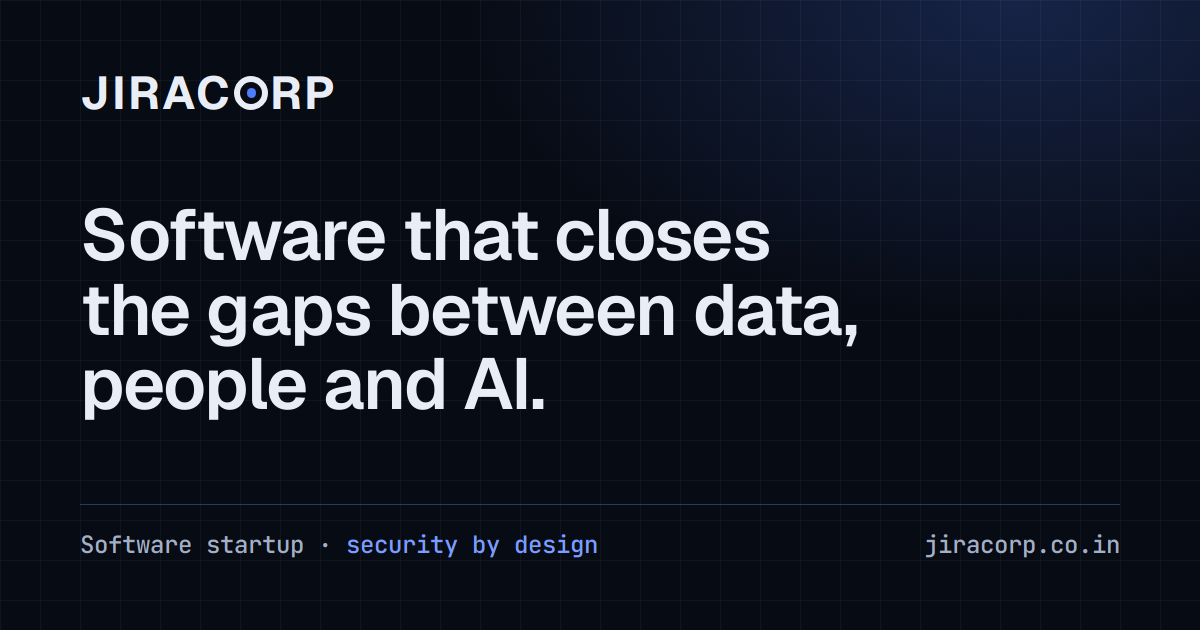
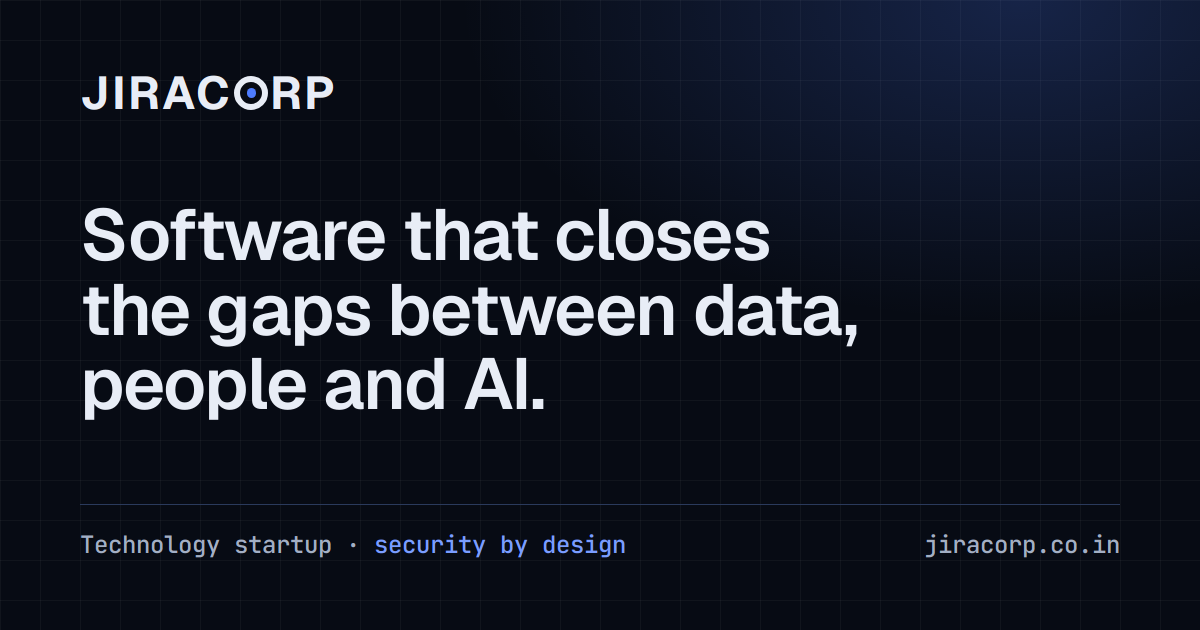
Say technology startup, not software startup

Changed region(s): [[0.0617, 0.8444, 0.5242, 0.9048]]

diff --git a/index.html b/index.html
@@ -4,7 +4,7 @@
   <meta charset="utf-8">
   <meta name="viewport" content="width=device-width, initial-scale=1">
   <title>JIRACORP</title>
-  <meta name="description" content="JIRACORP is an early-stage software startup building secure, self-hosted products that close the gaps between data, people and AI. Our first product is The Data-Bridge.">
+  <meta name="description" content="JIRACORP is an early-stage technology startup building secure, self-hosted products that close the gaps between data, people and AI. Our first product is The Data-Bridge.">
   <link rel="canonical" href="https://jiracorp.co.in/">
   <meta name="theme-color" content="#070B14">
   <meta property="og:type" content="website">
@@ -215,9 +215,9 @@
     <section class="hero" aria-labelledby="hero-h">
       <div class="wrap hero-grid">
         <div>
-          <p class="label">JIRACORP · Software startup</p>
+          <p class="label">JIRACORP · Technology startup</p>
           <h1 id="hero-h">Software that closes the gaps between data, people and AI.</h1>
-          <p class="lead">We are a young software company. We look for the places where teams work around their tools, and we build products that close those gaps, with security designed in from the first line of code.</p>
+          <p class="lead">We are a young technology company. We look for the places where teams work around their tools, and we build products that close those gaps, with security designed in from the first line of code.</p>
           <div class="row">
             <a class="btn primary" href="#products">See our products</a>
             <a class="btn" href="#contact">Talk to us</a>
@@ -242,7 +242,7 @@
         <div class="head">
           <p class="label">Who we are</p>
           <h2 id="about-h">A small company with a builder's mindset.</h2>
-          <p>JIRACORP is an early-stage software startup. We are small on purpose: it keeps us close to the code, quick to act on feedback, and focused on doing a few things well.</p>
+          <p>JIRACORP is an early-stage technology startup. We are small on purpose: it keeps us close to the code, quick to act on feedback, and focused on doing a few things well.</p>
           <p>We started with a problem we kept running into. Companies want AI tools to use their data, but the data sits in files, databases and warehouses that were never built to be shared safely. Teams end up writing one-off scripts and handing out credentials. Our first product, The Data-Bridge, is our answer to that, and it shapes how we will build everything after it.</p>
         </div>
         <dl class="about-facts">
